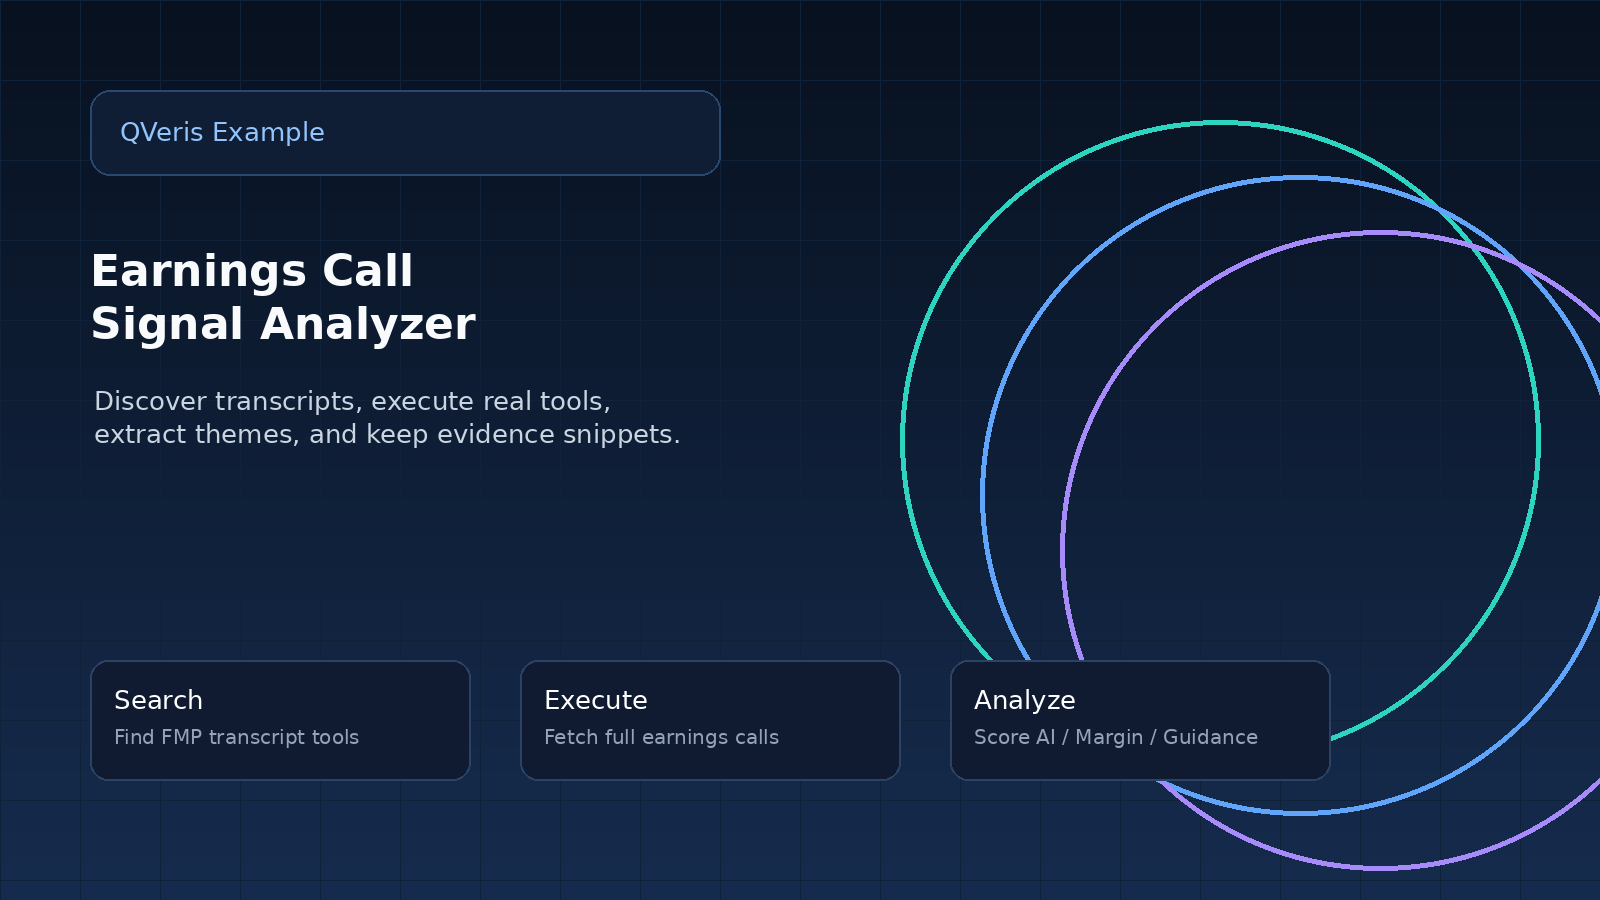
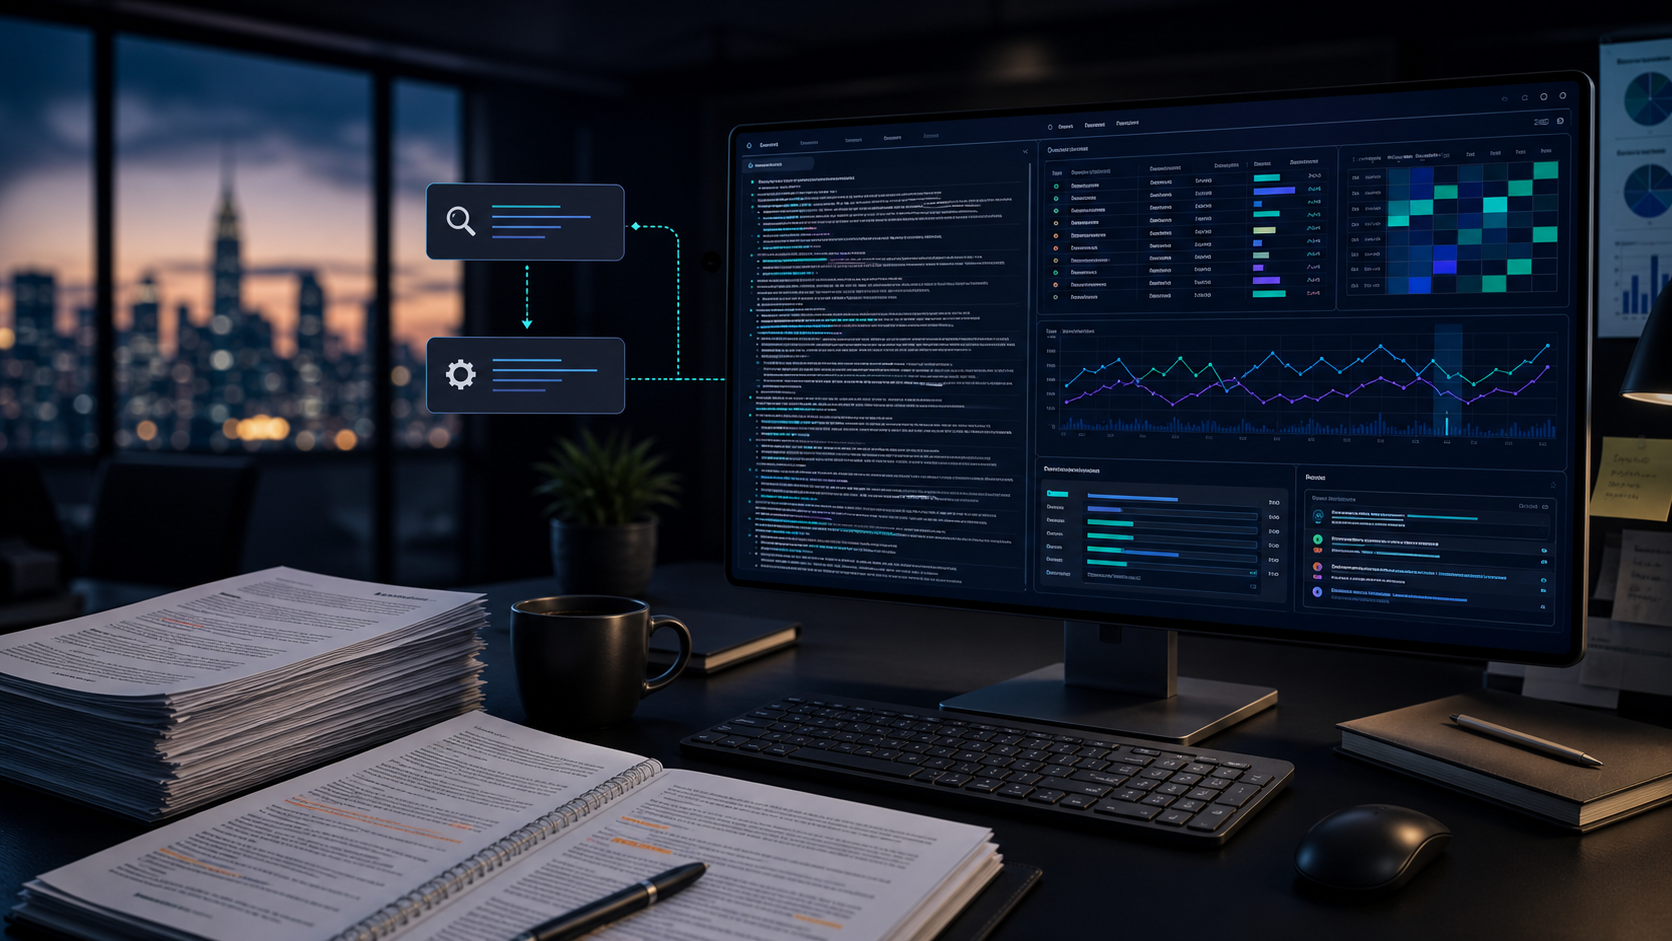
Update earnings call demo article

diff --git a/article.md b/article.md
@@ -1,5 +1,7 @@
 # 用 QVeris 把财报电话会逐字稿变成可追溯的投研线索
 
+![把闲散的财报电话会文本转成结构化投研线索](assets/cover_earnings_call_signal.png)
+
 这是一篇第三方实践记录。
 
 我看到 QVeris 已经接入了财报电话会逐字稿相关能力后，做了一个小程序：给定一组股票代码，程序先通过 QVeris 搜索可用工具，再调用逐字稿日期和正文接口，最后把几万字的 transcript 转成跨公司、跨季度、可追溯的主题信号。
@@ -48,6 +50,38 @@
 
 这样后续无论是人工复核、做图表，还是接入内部投研流程，都不用重新从几万字文本里定位出处。
 
+## 电话会议内容是如何获取的
+
+市场上下文用的是 `financialmodelingprep.historical_price_eod.light.retrieve.v1.3f860211`，但它只是后续补充背景。这个 demo 最核心的数据源是 earnings call transcript，本身也是通过 QVeris 获取的。
+
+程序没有直接硬编码外部接口地址，而是先让 QVeris 搜索“电话会日期”和“电话会正文”两类工具：
+
+| 数据 | QVeris 工具 | 参数 | 作用 |
+|---|---|---|---|
+| 电话会日期列表 | `financialmodelingprep.stable.earningcalltranscriptdates.retrieve.v1.34503129` | `symbol` | 查询某家公司有哪些可用的财报电话会期次。 |
+| 电话会逐字稿正文 | `financialmodelingprep.stable.earningcalltranscript.retrieve.v1.5db0c651` | `symbol`, `year`, `quarter` | 拉取指定公司、年份、季度的 earnings call transcript 内容。 |
+
+实际流程是：
+
+1. 先搜索工具：用自然语言查询 `Financial Modeling Prep Transcripts Dates By Symbol earnings call transcript dates` 和 `Financial Modeling Prep Earnings Transcript company earnings call content year quarter`。
+2. 再查期次：对每个股票代码调用 transcript dates 工具，例如输入 `AAPL`，返回可用的 fiscal year、quarter 和日期。
+3. 选取最近 N 个季度：程序按用户传入的 `--quarters` 截取最近几个期次。
+4. 拉取正文：对每个期次调用 transcript content 工具，传入 `symbol/year/quarter`。
+5. 分析正文：拿到 `content` 字段后，程序再做说话人识别、Q&A 分段、主题命中、风险/机会语境和证据台账。
+
+这也是为什么文章里强调“可追溯”：报告不只展示主题统计，还会记录 QVeris 搜索命中的 tool、执行结果、`execution_id`、cost，以及每条主题信号对应的原文片段。
+
+## 如何参考微信公众号文章
+
+这篇 demo 不是照着公众号文章复述一遍，而是把文章里的产品思路转成一个可以运行的第三方实践。参考方式大致是：
+
+- 先提取文章里的核心主张：QVeris 的价值不只是“有很多 API”，而是可以通过自然语言搜索工具、理解工具用途、再执行真实调用。
+- 再选一个读者容易理解、也能展示完整链路的场景：财报电话会逐字稿天然适合做“搜索工具 → 调用数据 → 结构化分析 → 留存证据”的样例。
+- 然后把文章中的抽象能力落到具体产物：命令行程序、网页 dashboard、HTML 报告、CSV 证据台账、在线 Live Run。
+- 最后用真实运行结果验证：不是写一篇概念文章，而是把 QVeris 的 search 和 execute 真正接进程序，能看到 tool_id、execution_id、cost 和返回数据。
+
+换句话说，公众号文章提供的是“为什么 QVeris 适合做 API Agent 基础设施”的方向；这个 demo 做的是“拿一个真实投研问题，把这条路径跑通”。
+
 ## 运行方式
 
 ```bash
@@ -73,6 +107,72 @@ uv run earnings-signal \
 代码地址：
 
 https://github.com/ax2/qveris-earnings-call-signal-demo
+
+在线测试地址：
+
+http://172.16.10.53:18092/
+
+## 这个程序是如何实现的
+
+这个 demo 的实现思路并不复杂：先把“找数据接口”和“调用数据接口”交给 QVeris，再把精力放到投研工作流本身。程序内部没有硬编码某个固定接口，而是先用自然语言搜索可用工具，再根据搜索结果选择最合适的 tool 执行。
+
+核心链路可以拆成五步：
+
+1. 搜索工具：用 QVeris `/search` 搜索财报电话会日期、逐字稿、历史价格、基础财务指标和新闻类工具。
+2. 执行工具：拿到 `search_id` 和 `tool_id` 后，通过 `/tools/execute` 拉取真实数据。
+3. 结构化清洗：把逐字稿拆成说话人、管理层/分析师、prepared remarks / Q&A 等结构。
+4. 主题识别：按 AI、Margin、Guidance、Supply Chain、Pricing、Competition 等主题统计提及次数、每千词频率和风险/机会语境。
+5. 证据留存：把所有命中片段写入 `evidence_ledger.csv`，同时生成 Markdown、JSON、CSV 和网页报告。
+
+电话会议正文的获取是这条链路的第一性数据来源：先用 `financialmodelingprep.stable.earningcalltranscriptdates.retrieve.v1.34503129` 找到可用期次，再用 `financialmodelingprep.stable.earningcalltranscript.retrieve.v1.5db0c651` 按 `symbol/year/quarter` 拉取逐字稿正文。市场价格、基础面和新闻都是在逐字稿分析完成之后补进来的上下文。
+
+这里有几个关键概念：
+
+| 概念 | 作用 |
+|---|---|
+| Tool discovery | 不预设具体 API，而是让 QVeris 根据自然语言需求返回候选工具。 |
+| Search ID | 搜索结果和后续执行之间的关联 ID，执行工具时需要带上。 |
+| Evidence ledger | 每一条分析信号都保留原文片段、说话人、主题和上下文，避免只有结论没有出处。 |
+| Context enrichment | 电话会内容之外，再补充市场表现、基础面指标和新闻背景。 |
+| Live Run | 网页上实时触发 QVeris search + execute，验证程序不是静态报告。 |
+
+整个开发过程基本都由 Codex 完成。我给 Codex 的指令不是“一次性写完程序”，而是按阶段不断收敛：
+
+```text
+阅读我们官微的文章，参照这个文章实现一个有意义的程序，需要有实际效果。代码单独放一个仓库，可以在 yswx 下面建一个 demos 目录，里面放独立 demo，然后推送到个人账号。
+```
+
+这一步确定了项目方向：做一个能把财报电话会逐字稿转成结构化投研线索的 demo。Codex 先搭出 Python 项目、QVeris 客户端、分析器和命令行入口。
+
+```text
+按文章最终的可以继续扩展的方向扩展 qveris-earnings-call-signal-demo。
+不要使用 Yahoo Finance chart 接口。
+```
+
+这一步把程序从“只分析 transcript”扩展成完整上下文版本。因为明确要求不要使用 Yahoo Finance chart 接口，市场数据改成通过 QVeris 搜索并调用市场数据工具获取。
+
+```text
+按新的程序进行截图，并更新文档。
+继续按“下一步还可以继续做什么”里面说的完善这个程序，按需截图并更新文章。另外，代码增加 LICENSE，使用 MIT 授权。
+```
+
+这一步补齐了截图、报告、LICENSE 和文章内容。Codex 不是只写代码，也负责运行程序、生成输出文件、截取页面、更新文档。
+
+```text
+在 testlab 部署这个程序。
+除了 Markdown Report 的内容，还可以增加一个 Report 按钮，直接显示 HTML 格式的页面。更新代码、文档并同步部署到 testlab。
+```
+
+这一步把 demo 从命令行程序变成可访问的网页应用。Codex 增加了 FastAPI 服务、首页 dashboard、HTML 报告页、截图页和 systemd 用户服务。
+
+```text
+这个程序看上去并不像是实时在调用 QVeris 的接口？
+点击 Live Run 之后一直处于 Running 状态，经过一段时间后显示 Run failed: Internal Server Error，也不清楚什么问题。
+```
+
+这一步推动程序补上 Live Run。Codex 增加了前端表单和 `/run` 接口，让页面可以真实触发 QVeris 调用。后来发现 testlab 直连 `qveris.ai` 超时，服务进程需要走本机代理，于是又补了 systemd 代理环境，并把后端错误从裸 500 改成带 `error/message/hint` 的 502 JSON，方便定位问题。
+
+这个过程里比较有价值的经验是：AI 辅助开发适合拆成连续的小闭环。每一轮都让 Codex 做一件具体的事：实现、运行、截图、部署、测试、看日志、修正错误、更新文章。这样最后得到的不是一段孤立代码，而是一个有代码仓库、有在线地址、有运行记录、有文档说明、也能继续迭代的完整样例。
 
 ## 可以继续扩展的方向
 